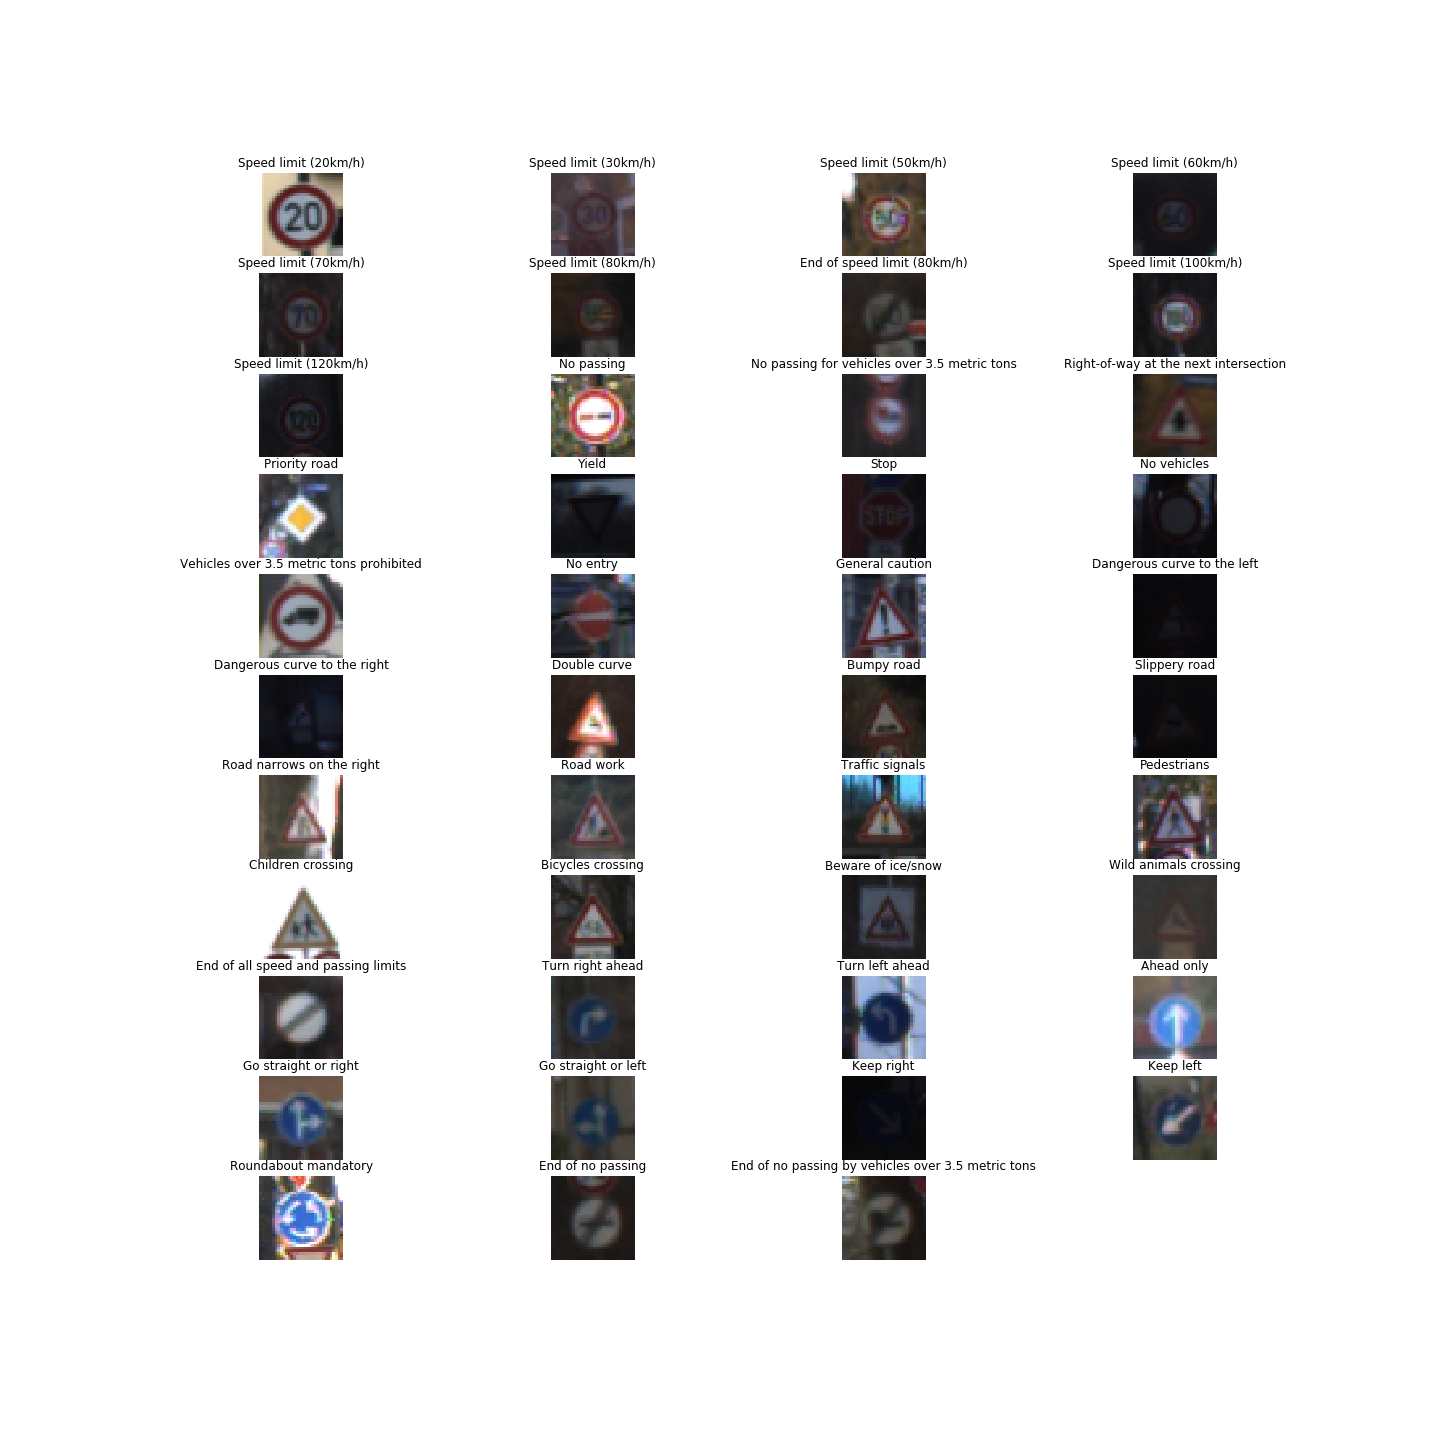
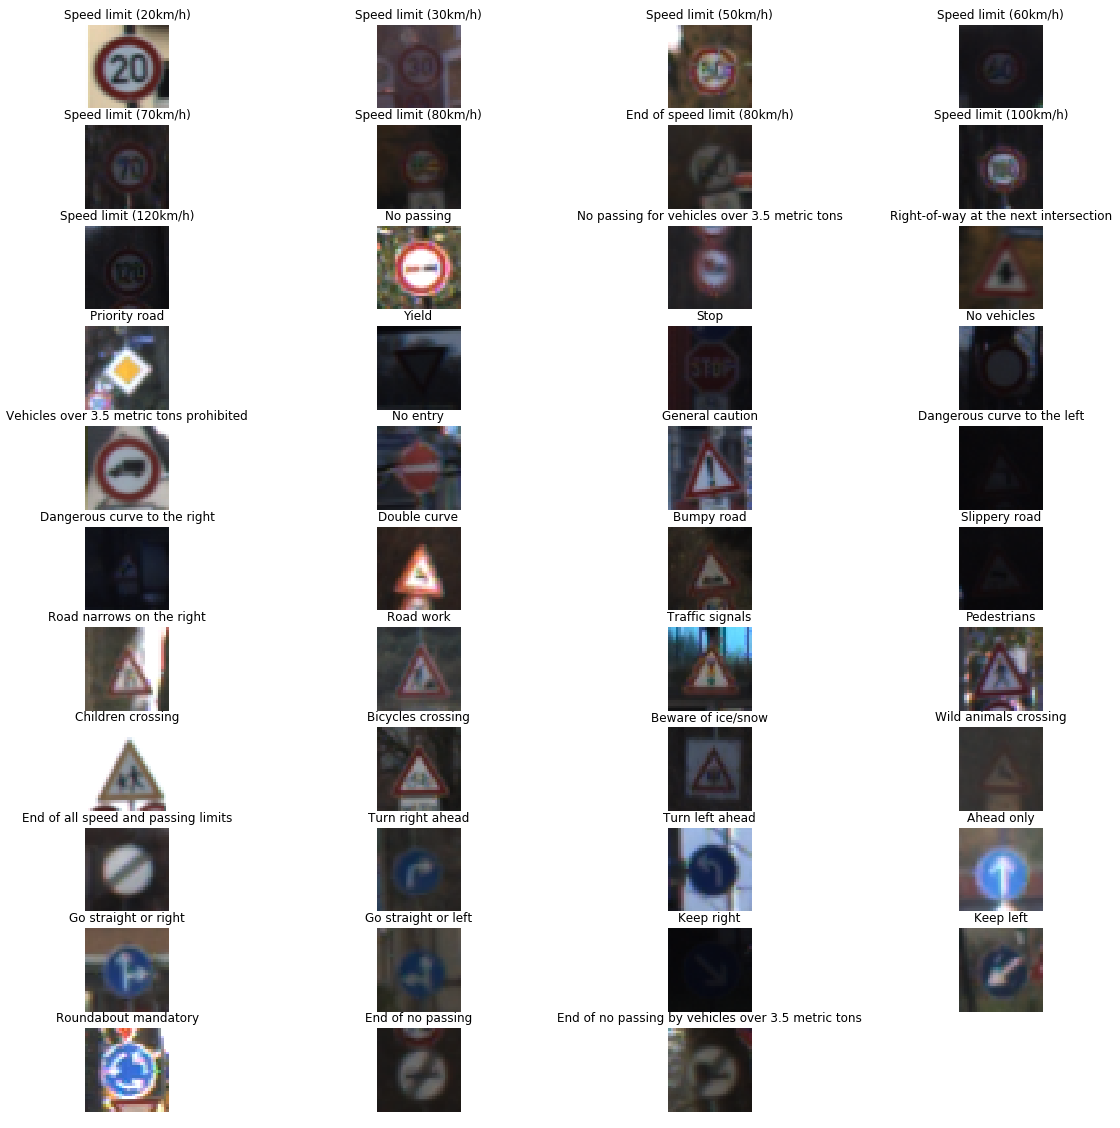
Updated README.md with resized images.

diff --git a/README.md b/README.md
@@ -77,7 +77,7 @@ My final model was the LeNet-5 network with slight modification to accommodate t
 | RELU					|												|
 | Max pooling	      	| 2x2 stride,  outputs 14x14x6   				|
 | Convolution 5x5	    | 1x1 stride, same padding, outputs 10x10x16	|
-| Relu                  |                                               |
+| RELU                  |                                               |
 | Max pooling	      	| 2x2 stride,  outputs 5x5x16   				|
 | Flatten   	      	| 5x5x16 = 400                     				|
 | Fully connected		| 120 outputs  									|
@@ -165,7 +165,9 @@ For all images, the model is very certain on the class of the traffic sign (prob
 
 ### (Optional) Visualizing the Neural Network (See Step 4 of the Ipython notebook for more details)
 #### 1. Discuss the visual output of your trained network's feature maps. What characteristics did the neural network use to make classifications?
+
 ![alt text][image5]
+
 Especially on the first layer, it's apparent that the network focused on the octagon shape of the stop sign, as well the characters on the sign.
 
 ### TODO
